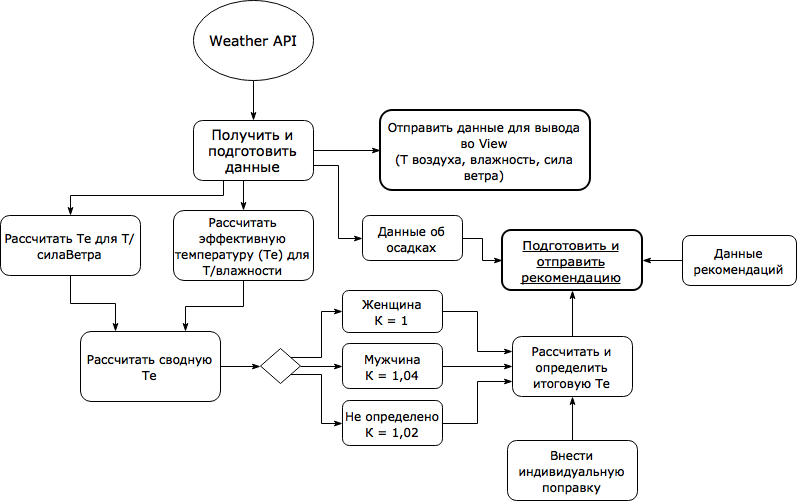
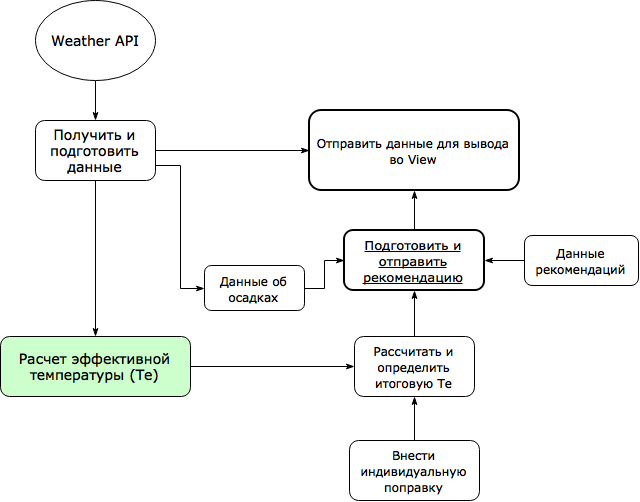
Добавлено подробное описание формул в Алгоритмы, изменен файл изображения алгоритма и добавлено дополнительное изображение описывающие порядок расчета вычислений.

diff --git a/Auxilary_Files/Алгоритмы.md b/Auxilary_Files/Алгоритмы.md
@@ -5,7 +5,7 @@
 (https://raw.githubusercontent.com/khasang-incubator/ClothesForecast/develop/Auxilary_Files/Алгоритм_stereoVibe.png)
 
 ### Формулы для расчета:
-Как видно на изображении, для расчета сводной эффективной температуры (**Те**), необходимо высчитать два показателя, две зависимости температуры - от влажности и от силы ветра. <br>
+Для расчета сводной эффективной температуры (**Те**), необходимо высчитать два показателя, две зависимости температуры - от влажности и от силы ветра. <br>
 Пусть зависимость температуры от влажности будет **Теh** <br>
 Зависимость температуры от силы ветра будет **Tew** <br>
 
@@ -15,7 +15,7 @@ Dp - точка росы (формула ниже дает результат в
 * h = (0.5555) * (e - 10.0);
 * e = 6.11 * exp(5417.7530  ((1/273.16) - (1/Dp)));
 * Dp = b * f(T, Rh) / a - f(T, Rh), где <br>
-  Rh - относительная влажность(%), <br> 
+  Rh - относительная влажность(%), <br>
   Т - температура воздуха (°С) <br>
   f(T, Rh) = (a * T / b + T) + ln(Rh/100) <br>
   a = 17,27, b = 237,7<br>
@@ -24,5 +24,5 @@ Dp - точка росы (формула ниже дает результат в
 V - скорость ветра в км/ч. (в зависимости от данных API, необходимо пересчет в м/с). Данный показатель обычно указывают, как скорость ветра на высоте 10м (высота анемометра), соответсвтенно, если мы не планируем летать, то следует ввести поправку: **V * 0,5** (скорость ветра на высоте 1,5-2м.) <br>
 T - температура в °С <br>
 
-***WCF*** - Wind Chill Factor (Фактор охлаждения ветром). Пока не очень ясно как его можно применить.
+***WCF*** - Wind Chill Factor (Фактор охлаждения ветром). Пока не очень ясно как его можно применить. И нужен ли он вообще.
 * WCF = 1.1626 * (5.2735 * SQROOT(W) + 10.45 - 0.2778 * W) * (33.0 - T)
